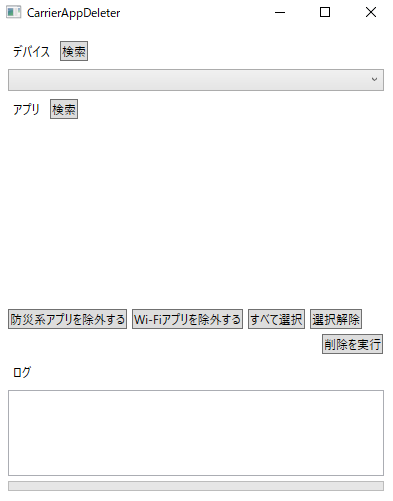
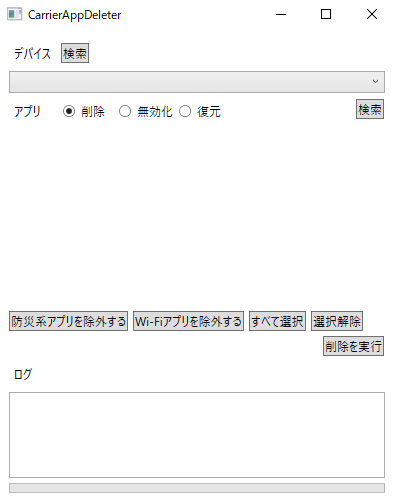
1.1.0アップデート
アプリの無効化・回復が可能になりました
UIの動作の多少の変更を行いました

diff --git a/CarrierAppDeleter/MainWindow.xaml b/CarrierAppDeleter/MainWindow.xaml
@@ -25,9 +25,9 @@
         <Button Content="選択解除" HorizontalAlignment="Left" Margin="312,0,0,172" VerticalAlignment="Bottom" Click="Button_Click_6"/>
         <ProgressBar x:Name="ProgressBar1" Height="10" Margin="10,0,10,10" VerticalAlignment="Bottom"/>
         <Button x:Name="DisableButton" Content="無効化を実行" HorizontalAlignment="Right" Margin="0,0,10,147" VerticalAlignment="Bottom" Width="75" Click="Button_Click_8"/>
-        <RadioButton x:Name="R_Uninstall" Content="アンインストール"  HorizontalAlignment="Right" Margin="0,74,252,0" VerticalAlignment="Top" Checked="R_Uninstall_Checked"/>
-        <RadioButton x:Name="R_Disabled" Content="無効化" HorizontalAlignment="Left" Margin="157,74,0,0" VerticalAlignment="Top" Checked="R_Disabled_Checked"/>
-        <RadioButton x:Name="R_Repair" Content="復元" HorizontalAlignment="Left" Margin="217,74,0,0" VerticalAlignment="Top" Checked="R_Repair_Checked"/>
+        <RadioButton x:Name="R_Uninstall" Content="削除"  HorizontalAlignment="Right" Margin="0,74,290,0" VerticalAlignment="Top" Checked="R_Uninstall_Checked"/>
+        <RadioButton x:Name="R_Disabled" Content="無効化" HorizontalAlignment="Left" Margin="119,74,0,0" VerticalAlignment="Top" Checked="R_Disabled_Checked"/>
+        <RadioButton x:Name="R_Repair" Content="復元" HorizontalAlignment="Left" Margin="179,74,0,0" VerticalAlignment="Top" Checked="R_Repair_Checked"/>
         <Button x:Name="RepairButton" Content="復元を実行" HorizontalAlignment="Right" Margin="0,0,10,147" VerticalAlignment="Bottom" Width="75" Click="RepairButton_Click"/>
 
 

diff --git a/CarrierAppDeleter/MainWindow.xaml.cs b/CarrierAppDeleter/MainWindow.xaml.cs
@@ -138,16 +138,15 @@ namespace CarrierAppDeleter
         private void Button_Click_1(object sender, RoutedEventArgs e)
         {
         }
-
-        private void Button_Click_2(object sender, RoutedEventArgs e)
+        void loadList()
         {
             AppList.Children.Clear();
             var path = System.IO.Path.Combine(Directory.GetParent(Assembly.GetExecutingAssembly().Location).FullName, "platform-tools", "adb.exe");
             Process process = new Process();
-            string addWord="";
-            if(DeviceComboBox.Items.Count > 0&& DeviceComboBox.SelectedIndex!=-1)
+            string addWord = "";
+            if (DeviceComboBox.Items.Count > 0 && DeviceComboBox.SelectedIndex != -1)
             {
-                addWord="-s " + DeviceComboBox.SelectedItem.ToString()+ " ";
+                addWord = "-s " + DeviceComboBox.SelectedItem.ToString() + " ";
             }
             string addWord2 = "";
             if (R_Disabled.IsChecked == true)
@@ -163,7 +162,7 @@ namespace CarrierAppDeleter
                 process.EnableRaisingEvents = true;
 
                 process.Exited += Process_Exited;
-                
+
                 process.Start();
                 process.BeginOutputReadLine();
                 process.BeginErrorReadLine();
@@ -171,7 +170,7 @@ namespace CarrierAppDeleter
             else
             {
                 Task task = new Task(() =>
-                { 
+                {
                     ProcessStartInfo pf = new ProcessStartInfo(path, addWord + "shell pm list package -s softbank kddi auone docomo ntt rakuten yahoo") { UseShellExecute = false, CreateNoWindow = true, RedirectStandardOutput = true, RedirectStandardError = true };
                     var t = Process.Start(pf);
                     t.WaitForExit();
@@ -193,7 +192,7 @@ namespace CarrierAppDeleter
                     t.WaitForExit();
                     readword = t.StandardOutput.ReadToEnd();
                     string[] all = readword.Replace("package:", "").Replace("\r", "").Split('\n');
-                    
+
                     this.Dispatcher.Invoke((Action)(() =>
                     {
                         for (int i = 0; i < all.Length; i++)
@@ -211,6 +210,10 @@ namespace CarrierAppDeleter
                 });
                 task.Start();
             }
+        }
+        private void Button_Click_2(object sender, RoutedEventArgs e)
+        {
+            loadList();
         }
 
         private void Process_ErrorDataReceived1(object sender, DataReceivedEventArgs e)
@@ -362,6 +365,8 @@ namespace CarrierAppDeleter
 
                     DisableButton.Content = "削除を実行";
                     ProgressBar1.Value = 0;
+
+                    loadList();
                 }));
 
                 //    if (backup)
@@ -558,6 +563,8 @@ namespace CarrierAppDeleter
 
                     DisableButton.Content = "無効化を実行";
                     ProgressBar1.Value = 0;
+                    loadList();
+
                 }));
 
 
@@ -687,6 +694,8 @@ namespace CarrierAppDeleter
 
                     RepairButton.Content = "復元を実行";
                     ProgressBar1.Value = 0;
+                    loadList();
+
                 }));
 
 

diff --git a/README.md b/README.md
@@ -1,5 +1,14 @@
 # CarrierAppDeleter
 CarrierAppDeleterは[竹林人間](https://github.com/Aoi-Developer/)さんの[Remove-career-app](https://github.com/Aoi-Developer/remove-career-app)の機能をWindowsのGUIで独自実装し機能を追加したものです。
+
+追加した機能は以下の通りです
+
+- デバイスの選択機能
+- アプリのチェックボックスでの選択機能
+- キャリアアプリの一括無効化
+- アンインストールしたキャリアアプリの回復
+- platform-toolsの自動導入([Remove-career-app](https://github.com/Aoi-Developer/remove-career-app)のLinux・Mac版には存在します)
+
 ## 対応環境
 Windows8以上の.NET Framework 4.7.2がインストールされている環境。
 
@@ -48,7 +57,7 @@ ARM系CPUでの動作確認はしておりません。
 ![署名なし](https://github.com/binary-number/CarrierAppDeleter/blob/master/REAEME_Image/Image1.png)
 
 
-初回起動時はplatform-toolsの導入のため5秒ほど時間がかかります。
+初回起動時はplatform-toolsの導入のため10秒ほど時間がかかります。
 
 ### 操作
 起動すると以下のは画面表示されます。
@@ -67,8 +76,18 @@ ARM系CPUでの動作確認はしておりません。
 
 検索が終了するとデバイスが下のComboBox(ドロップダウンリスト)に追加されますので、任意の端末を選択してください。
 
-#### 削除するアプリの選択
-アプリと書かれた横にある __検索__ と書かれたボタンを押すことで選択されたデバイスのキャリアアプリを検索します。
+#### アプリの選択
+
+アプリと書かれた横にあるラジオボタンから削除・無効化・回復のいずれかを選び、  __検索__ と書かれたボタンを押すことで選択されたデバイスのキャリアアプリを検索します。
+
+それぞれの機能の違いは以下の表のようになっています
+
+|機能名|機能|
+|------|----|
+|削除|キャリアアプリをアンインストールします。|
+|無効化|キャリアアプリを無効化します。スマホ端末側でいつでも有効化できます|
+|回復|アンインストールしたキャリアアプリを再度インストールします|
+
 
 今回キャリアアプリの定義としては以下の二点とします。
 
@@ -81,19 +100,23 @@ ARM系CPUでの動作確認はしておりません。
 ![実行画面](https://github.com/binary-number/CarrierAppDeleter/blob/master/REAEME_Image/Image4.png)
 
 
-初期状態はすべて選択されていますので、削除したくないアプリがありましたら、チェックボックスのチェックを外し除外してください。
+削除もしくは無効化の場合に初期状態はすべて選択されていますので、削除・無効化したくないアプリがありましたら、チェックボックスのチェックを外し除外してください。
+
+回復の場合は回復したいアプリを選択してください。
 
 
 
 また、Wi-Fiアプリ・災害系のアプリを除外するのボタンを押すことで該当のアプリの選択を解除することができます。
-なお、2022年7月23日時点でのWi-Fiアプリ・災害系のアプリですので今後変更された場合には除外されない可能性がありますので、あくまで __目安__ としてご使用ください。
+(回復の場合はWi-Fiアプリ・災害系アプリを追加するボタンに変わります。)
 
-#### アプリの削除
-削除を実行ボタンを押すことでチェックボックスのチェックのついているアプリが削除されます。
+なお、2022年7月24日時点でのWi-Fiアプリ・災害系のアプリですので今後変更された場合には除外・追加されない可能性がありますので、あくまで __目安__ としてご使用ください。
 
-削除する前にもう一度削除して良いかダイアログが表示されますので確認の上実行してください。
+#### 処理を実行
+削除を実行・無効化を実行・回復を実行のいずれかのボタンを押すことでチェックボックスのチェックのついているアプリをそれぞれ削除(アンインストール)・無効化・回復(再インストール)します。
 
-アプリが削除が始まるとログが表示され、すべて削除されると削除された旨を伝えるダイアログが表示されます。
+処理をする前に処理をして良いかダイアログが表示されますので確認の上実行してください。
+
+処理が始まるとログが表示され、すべての処理が終了すると旨を伝えるダイアログが表示されます。
 
 
 ## Build方法
@@ -101,5 +124,5 @@ Visual Studioで.slnファイルを開きBuildしてください。
 
 ## 今後導入したい機能(不可能な可能性あり)
 
-- APKファイルのバックアップ機能
+
 - チェックボックスの表示をpackage名からアプリ名への変更
